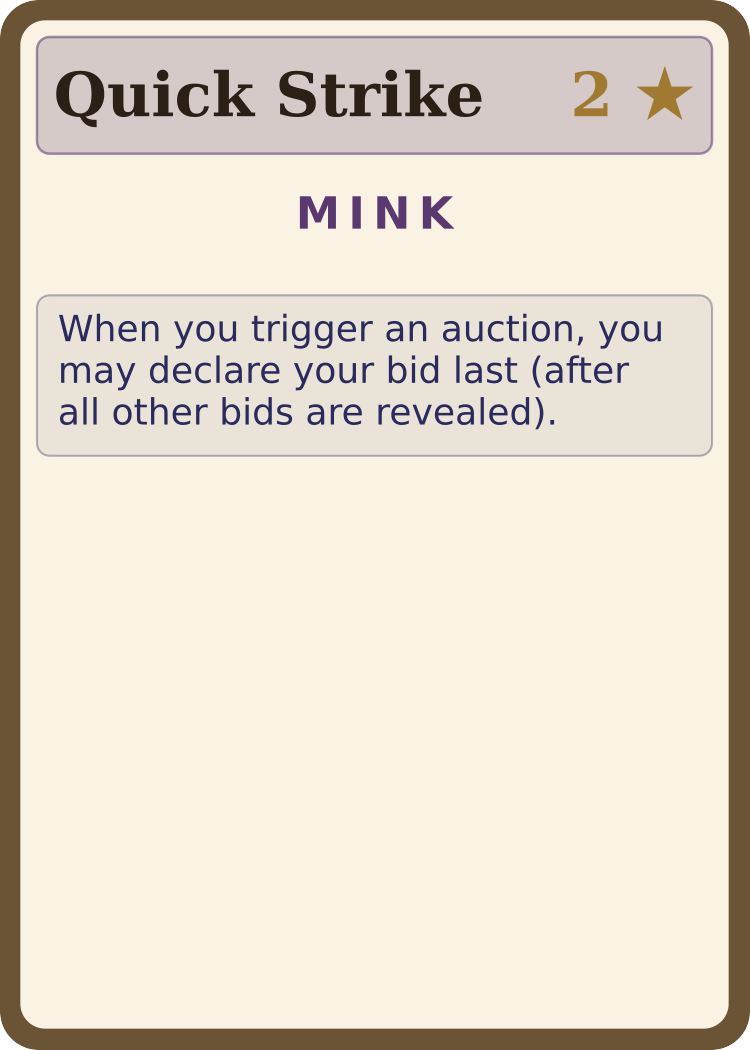
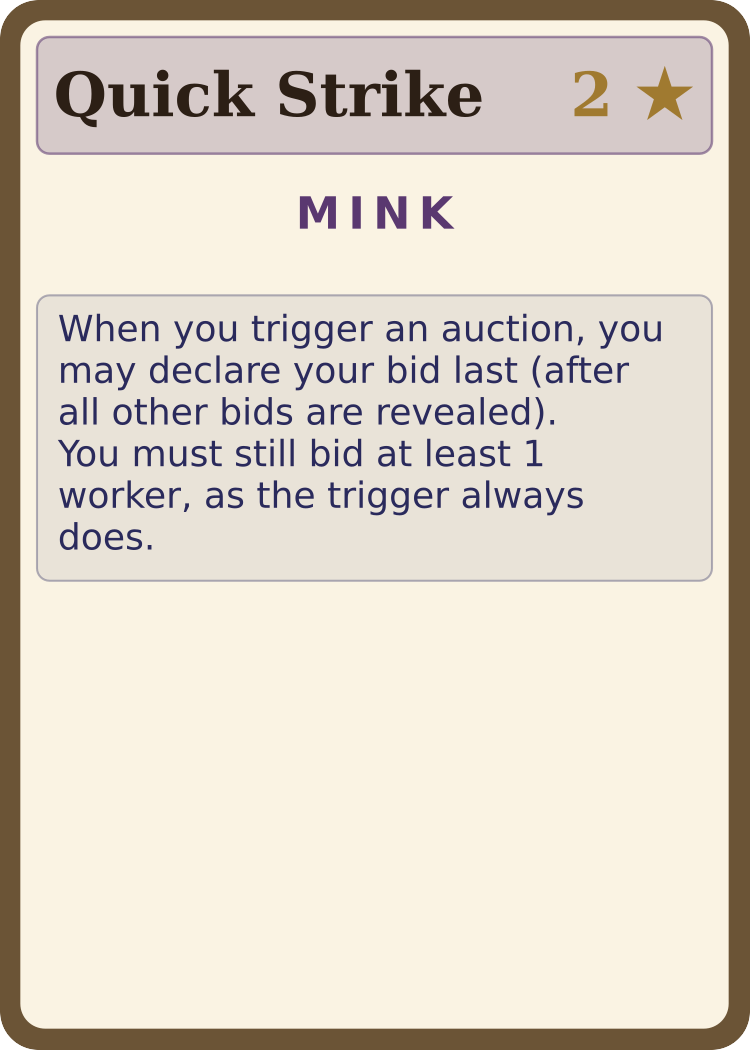
Quick Strike: clarify trigger must still bid at least 1 worker
Make the min-bid-1 rule explicit on the card (the deferred-bid effect only
applies on auctions you trigger, and the trigger always bids >=1). Updated
card-image source, regenerated PNG, prototype + sim card data, SPECIES.md.

Changed region(s): [[0.0307, 0.3962, 0.7973, 0.5486], [0.92, 0.4267, 0.9507, 0.4571]]

diff --git a/sim.js b/sim.js
@@ -88,7 +88,7 @@ const BASE_STRUCTURE_TEMPLATES = [
   { name: 'Marsh Lookout',    cost: { logs: 0 },                       time: 0, vp: 2, species: 'muskrat', effect: 'Peek at the top card of the material deck at any time.' },
   // Mink (Clay bias)
   { name: 'Clay Den',         cost: { logs: 0 },                       time: 0, vp: 0, species: 'mink',   effect: 'Clay icons cost you 2 less fish per item (min 1).' },
-  { name: 'Quick Strike',     cost: { logs: 0 },                       time: 0, vp: 2, species: 'mink',   effect: 'When you trigger an auction, you may declare your bid last (after all other bids are revealed).' },
+  { name: 'Quick Strike',     cost: { logs: 0 },                       time: 0, vp: 2, species: 'mink',   effect: 'When you trigger an auction, you may declare your bid last (after all other bids are revealed). You must still bid at least 1 worker, as the trigger always does.' },
   { name: 'Snare Set',        cost: { logs: 0 },                       time: 0, vp: 1, species: 'mink',   effect: 'Once per game, force an opponent to recall one of their workers from a river card (drops a blank). The opponent slides back 3 fish in compensation.' },
 ];
 

diff --git a/web/index.html b/web/index.html
@@ -1853,7 +1853,7 @@ const STRUCTURE_TEMPLATES = [
   { name: 'Marsh Lookout',    cost: { logs: 0 },                       time: 0, vp: 2, species: 'muskrat', effect: 'Peek at the top card of the material deck at any time.' },
   // Mink (Clay bias)
   { name: 'Clay Den',         cost: { logs: 0 },                       time: 0, vp: 0, species: 'mink',   effect: 'Clay icons cost you 2 less fish per item (min 1).' },
-  { name: 'Quick Strike',     cost: { logs: 0 },                       time: 0, vp: 2, species: 'mink',   effect: 'When you trigger an auction, you may declare your bid last (after all other bids are revealed).' },
+  { name: 'Quick Strike',     cost: { logs: 0 },                       time: 0, vp: 2, species: 'mink',   effect: 'When you trigger an auction, you may declare your bid last (after all other bids are revealed). You must still bid at least 1 worker, as the trigger always does.' },
   { name: 'Snare Set',        cost: { logs: 0 },                       time: 0, vp: 1, species: 'mink',   effect: 'Once per game, force an opponent to recall one of their workers from a river card (drops a blank). The opponent slides back 3🐟 in compensation.' },
 ];
 

diff --git a/SPECIES.md b/SPECIES.md
@@ -58,7 +58,7 @@ Each species (Beaver, River Otter, Muskrat, Mink) has a private pool of **3 them
 | Name | VP | Type | Effect |
 |------|----|------|--------|
 | **Clay Den** ⭐ | 0 | Constant — material bonus | Clay icons cost you 2 less fish per item (min 1). |
-| **Quick Strike** | 2 | Constant — bidding | When you trigger an auction, you may declare your bid last (after all other bids are revealed). |
+| **Quick Strike** | 2 | Constant — bidding | When you trigger an auction, you may declare your bid last (after all other bids are revealed). You must still bid at least 1 worker, as the trigger always does. |
 | **Snare Set** | 1 | Constant — disruption, once-per-game | Once per game, force an opponent to recall one of their workers from a river card (drops a blank). The opponent slides back 3🐟 in compensation. (Same as the main-deck Tribute Stone card.) |
 
 > **Printed VP** values were calibrated via per-starter forced-pick ablation. Underperforming cards get bumps; over-target cards stay at 0 VP (since printed VP can't go negative). See "Balance notes" below.